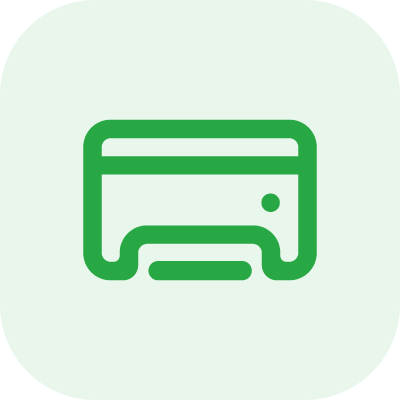
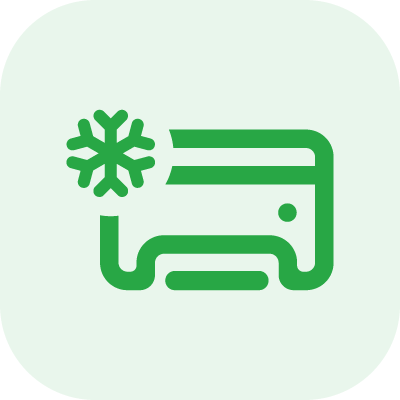
function + ajax + img + python

Changed region(s): [[0.15, 0.27, 0.84, 0.75]]

diff --git a/camarahistorico.php b/camarahistorico.php
@@ -1,11 +1,6 @@
 <?php
 session_start();
 
-// perlongar o tempo para 5 minutos não dar erro de 'Maximum execution time of 30 seconds exceeded'
-// para assim conseguir fazer o uso do pedido ajax
-ini_set('max_execution_time', '300'); //300 segundos = 5 minutos
-set_time_limit(300);
-
 // Ligação à Base de Dados (BD)
 require_once('connection.php'); 
 require_once('functions.php'); 
@@ -19,6 +14,7 @@ if ($_SESSION['perfil'] != 'admin') {
   header("Location: index.php");
   die();
 }
+
 
 // leitura das API's
 if (isset($_GET['nome'])) {
@@ -131,45 +127,13 @@ if (isset($_GET['nome'])) {
         'columns': [
           { data: "hora" },
           { data: "valor",
-            //o 'render' vai  converter o numero do ATUADOR de '1/0'  para 'aberto/fechado' ou 'ligado/desligado'
-            "render": function ( data, type, row ) { 
-              // caso porta/janela 
-              if ('<?php echo $nome_sensor ?>' === 'porta' || '<?php echo $nome_sensor ?>' === 'janela'){ 
-                if(data == '1'){ // valor for '1' -> escreve aberta
-                  return '<span> aberta </span>';
-                }else{ // valor for '0' -> escreve fechada
-                  return '<span> fechada </span>';
+            "render": function ( data, type, row ) {
+              // caso for porta/janela converte o numero 1/0 converte para aberto/fechado
+              if ('<?php echo $nome_sensor ?>' === 'porta'){ 
+                if(data == '1'){ return '<span> aberta </span>';
+                }else{ return '<span> fechada </span>';
                 }
-
-              // caso rega/ventoinha 
-              }else if('<?php echo $nome_sensor ?>' === 'rega' || '<?php echo $nome_sensor ?>' === 'ventoinha'){
-                if(data == '1'){ // valor for '1' -> escreve ligada
-                  return '<span> ligada </span>';
-                }else{ // valor for '0' -> escreve desligada
-                  return '<span> desligada </span>';
-                }
-
-              // caso refrigerador/aquecimento/humidificador 
-              }else if('<?php echo $nome_sensor ?>' === 'refrigerador' || '<?php echo $nome_sensor ?>' === 'aquecimento' || '<?php echo $nome_sensor ?>' === 'humidificador'){
-                if(data == '1'){ // valor for '1' -> escreve ligado
-                  return '<span> ligado </span>';
-                }else{ // valor for '0' -> escreve desligado
-                  return '<span> desligado </span>';
-                }
-
-              // caso movimento
-              }else if('<?php echo $nome_sensor ?>' === 'movimento' ){
-                if(data == '1'){ // valor for '1' -> escreve movimento não detetado
-                  return '<span> detetado </span>';
-                }else{ // valor for '0' -> escreve movimento detetado
-                  return '<span> não detetado </span>';
-                }
-
-              // caso camara muda para <img>
-              }else if('<?php echo $nome_sensor ?>' === 'camara'){
-                return '<span> <img width="150" src="' + (data) + ' " alt="Imagem da camara de vigilancia"> </span>';
-              
-              // caso for um SENSOR apresenta o valor do mesmo
+              // caso for outro sensor/atuador apresenta o valor do mesmo
               }else{
                 return data;
               }

diff --git a/ajax_cards.php b/ajax_cards.php
@@ -1,15 +1,24 @@
 <!-- CARD'S-->
 <div class="row row-cols-1 row-cols-sm-2 row-cols-lg-2 row-cols-xl-4 row_cards">
   <?php
+  // perlongar o tempo para 5 minutos não dar erro de 'Maximum execution time of 30 seconds exceeded'
+  // para assim conseguir fazer o uso do pedido ajax
+  ini_set('max_execution_time', '300'); //300 segundos = 5 minutos
+  set_time_limit(300);
+
+  require_once('connection.php');
+  require_once('functions.php');
+
   // soluçãoencontrada para a leitura SESSION com ajax
   if (!isset($_SESSION['username'])){ 
     session_start();
   }
 
-  require_once('connection.php');
-  require_once('functions.php');
 
-  $sql = "SELECT designacao,valor,hora FROM sensores ORDER BY designacao DESC LIMIT 8";
+
+ 
+
+  $sql = "SELECT designacao,valor,hora FROM sensores WHERE designacao NOT LIKE 'movimento' ORDER BY designacao DESC LIMIT 8";
   $result = mysqli_query($conn, $sql);
 
   while ($row = mysqli_fetch_row($result)) {
@@ -18,26 +27,24 @@
     // e vai buscar tambem o simbolo '%' ou 'ºC' dependendo do nme do sensor
     $valorSensor = converteValor($row[0], $row[1]);
 
-    if($row[0] == 'porta' || $row[0] == 'janela' || $row[0] == 'rega'){ // coloca nome e valor (aberta/fechada) para imagem 
-      $imgSensor = "$row[0]_$valorSensor";
-    }else{
-      $imgSensor = "$row[0]";
-    }
+    // vai buscar a IMG consuante o seu valor (aberto/desligado)
+    $imgSensor = imgNomeSrc($row[0]);
+
   ?>
 
     <div class="col col_card" id="div-to-refresh">
       <div class="card border-light">
         <div class="card-body rounded shadow-sm p-3">
           <div class="media">
-            <img class="mr-3" width="50" src="public/img/icon_sensor_<?php echo $imgSensor ?>.png" 
+            <img class="mr-3" width="50" src="<?php echo $imgSensor ?>" 
             onerror="this.src='public/img/icon_sensor_default.png'" alt="Icon de <?php echo $row[0] ?>"">
             <div class=" media-body">
             <h4 class="mb-1"> <b> <?php echo $valorSensor ?> </b> </h4>
             <h6 class="mb-1 text-muted"> <?php echo ucfirst($row[0]) ?> </h6>
           </div>
         </div>
-        <!-- restrinção para 'user' -->
-        <?php if ($_SESSION['perfil'] == "admin") { ?>
+        <!-- restrinção para 'user' // Apenas 'admin' e 'funcionario' tem acesso ao histórico-->
+        <?php if ( $_SESSION['perfil'] == "admin" || $_SESSION['perfil'] == "funcionario" ) { ?>
         <!-- actualização com icon + link de historico-->
         <div class="mt-3 pt-3 border-top">
           <span>
@@ -52,7 +59,8 @@
 </div>
 
 <?php }
-  $conn->close(); ?>
+  $conn->close(); 
+  ?>
 
 </div>
 <!-- FIM da secção das Card's-->

diff --git a/python/capturaWebcamOpensCV.py b/python/capturaWebcamOpensCV.py
@@ -5,22 +5,28 @@ import _thread
 import requests
 import cv2 as cv
 
+# defenição da data/hora para o POST
 def datahora():
     dt=strftime("%d/%m/%Y %H:%M:%S", gmtime())       
     return dt
 
+#vai buscar o data/hora para inserir no nome da imagem para não duplicar as mesmas
+def getTimeImg():
+    hora=strftime("%d-%m-%Y_%H-%M-%S", gmtime())       
+    return hora
 
-def send_post():
+
+def send_post(img):
         url = 'http://127.0.0.1/TI/projeto_it_greenhouse/api/api.php'        
 
         array_dados={
-            'nome' : 'movimento',
-            'valor' : '0',
+            'nome' : 'camara',
+            'valor' : img,
             'hora': datahora()
         }
         
         r=requests.post(url, data = array_dados)
-        #print(r.text)
+        print(r.text)
 
         if r.status_code == 200:
             print ("OK: POST realizado com sucesso")
@@ -37,7 +43,6 @@ def send_post():
 try :
     print( "Prima CTRL+C para terminar\n")
 
-    currentFrame = 0
 
     while True: # ciclo para o programa executar sem parar…
 
@@ -53,25 +58,25 @@ try :
                  # cv.CAP_DSHOW -> para não aparecer o warning de 'anonymous-namespace'
                 camera = cv.VideoCapture(0, cv.CAP_DSHOW)
                
-                
                 # Tira uma imagem - webcam
                 ret, imgCap = camera.read()
-                print ("Resultado da Camera = \n" + str(ret))
+                print ("Resultado da Camera = " + str(ret))
 
                 # reduzir o tamenho da imagem
                 #img_resize = cv.resize(imgCap,(300,300))
                 
-                file = "../public/img/webcam/test_image_" + str(currentFrame) + ".jpg"
+                fileName = "camara_" + str(getTimeImg()) + ".jpg" #cria o nome da imagem a partir da data/hora
+                file = "../public/img/webcam/" + str(fileName)  # caminho para o armanezamento da imagem
                 cv.imwrite(file, imgCap) # grava a imagem em disco
-                
-                # Para não duplicar as imagens
-                currentFrame += 1
 
                 camera.release()
                 cv.destroyAllWindows()
-                #send_post() # tenatr arranjar outra maneira
 
-            time.sleep (2)
+                #caminho da imagem para enviar via POST
+                fileImg = "public/img/webcam/" + fileName
+                send_post(fileImg) # enviar a imagem para a Base de Dados (POST)
+
+            time.sleep (2) #espera 2 segundos
 
 
 

diff --git a/ajax_tabelaSensores.php b/ajax_tabelaSensores.php
@@ -1,18 +1,24 @@
 <?php 
+  // perlongar o tempo para 5 minutos não dar erro de 'Maximum execution time of 30 seconds exceeded'
+  // para assim conseguir fazer o uso do pedido ajax
+  ini_set('max_execution_time', '300'); //300 segundos = 5 minutos
+  set_time_limit(300);
+
+  require_once('connection.php'); 
+  require_once('functions.php'); 
+
   // soluçãoencontrada para a leitura SESSION com ajax
   if (!isset($_SESSION['username'])){ 
     session_start();
   }
-  
-  require_once('connection.php'); 
-  require_once('functions.php'); 
 
   $dados = obterSensores();
+
 ?>
 
 
 <!-- Tabela dos Sensores -->
-<div class="card border-light rounded shadow-sm mt-3">
+<div class="card border-light rounded shadow-sm mt-3 mb-3">
   <div class="card-header bg-success text-white header-table">Tabela de Sensores</div>
   <div class="card-body card_sensores">
     <table class="table table-sm table-responsive-sm">
@@ -51,7 +57,7 @@
              if( ($greenhouse->designacao) == "camara" ){  //No caso de ser camara ira mostrar uma imagem
                 echo " <td> 
                           <img class='mr-3' width='70' src=' " . ($greenhouse->valor) . " ' 
-                          onerror='this.src='public/img/icon_sensor_default.png'' alt=''> 
+                          onerror='this.src='public/img/icon_sensor_default.png'' alt='Imagem Camara'> 
                         </td>";
 
              } else {
@@ -112,9 +118,9 @@
             <?php // botões para os atuadores
             $nome = $greenhouse->designacao;
             $valor = $greenhouse->valor;
-              if ($nome == 'porta' || $nome == 'janela' || $nome == 'rega' || $nome == 'refrigerador' || $nome == 'aquecimento') {
+              if ($nome == 'porta' || $nome == 'janela' || $nome == 'rega' || $nome == 'refrigerador' || $nome == 'aquecimento' || $nome == 'humidificador' || $nome == 'ventoinha') {
                 echo "<td>";
-                echo "<button id=btn" . $nome . " name='" . $nome . "' type='button' class='btn btn-outline-success btn-sm' onclick='btnEstado(this)' value='" . $valor . "'> Send Post </button>";
+                echo "<button id=btn" . $nome . " name='" . $nome . "' type='button' class='btn btn-outline-success btn-sm' onclick='btnEstado(this)' value='" . $valor . "'> Post " . ucfirst($nome) . " </button>";
                 echo "</td>";
               } else{
                 echo "<td class='text-muted'> - </td>";

diff --git a/functions.php b/functions.php
@@ -13,7 +13,7 @@ function isLoggedIn() {
 function escreveSimbolo($nome) {
     $simbolo = "";
 
-    if ($nome == "luminosidade" || $nome == "humidade" || $nome == "humidade solo" || $nome == "co2") {
+    if ($nome == "humidade") {
       $simbolo = "%";
     }
 
@@ -34,14 +34,28 @@ function converteValor($nome, $valor) {
     }else{
       $valorSensor = 'fechada';
     }
-  // caso não outros atuadores converte '1/0' para 'ligado/desligado'
-  }else if($nome == 'rega'){
-    if ($valor == '1'){ // se for '1' converte para 'ligado'
+  // caso o atuador for luminosidade
+  }else if($nome == 'luminosidade'){
+    if ($valor == '1'){ // se for '1' converte para 'alta'
+      $valorSensor = 'alta';
+    }else{
+      $valorSensor = 'baixa';
+    }
+  // caso o atuador for movimento
+  }else if($nome == 'movimento'){
+    if ($valor == '1'){ // se for '1' converte para 'detetado'
+      $valorSensor = 'detetado';
+    }else{
+      $valorSensor = 'não detetado';
+    }
+  // caso não outros atuadores converte '1/0' para 'ligado/desligado'  
+  }else if($nome == 'rega' || $nome == 'ventoinha'){
+    if ($valor == '1'){ // se for '1' converte para 'ligada'
       $valorSensor = 'ligada';
     }else{
       $valorSensor = 'desligada';
     }
-  }else if($nome == 'refrigerador' || $nome == 'aquecimento'){
+  }else if($nome == 'refrigerador' || $nome == 'aquecimento' || $nome == 'humidificador' ){
     if ($valor == '1'){ // se for '1' converte para 'ligado'
       $valorSensor = 'ligado';
     }else{
@@ -72,13 +86,22 @@ function imgNomeSrc($nome) {
     }else{
       $nomeImg = $nome.'_fechada';
     }
-  // caso não seja nenhum desses atuadores, fica apenas o nome
-  }else if($nome == 'refrigerador' || $nome == 'aquecimento'){
+
+  // caso o atuador for refrigerador/aquecimento/humidificador
+  }else if($nome == 'refrigerador' || $nome == 'aquecimento' || $nome == 'humidificador' ){
     if ($valor == '1'){ // se for '1' converte para 'aberta'
       $nomeImg = $nome.'_ligado';
     }else{
       $nomeImg = $nome.'_desligado';
     }
+
+  // caso o atuador for rega/ventoinha
+  }else if($nome == 'rega' || $nome == 'ventoinha'){
+  if ($valor == '1'){ // se for '1' converte para 'aberta'
+    $nomeImg = $nome.'_ligada';
+  }else{
+    $nomeImg = $nome.'_desligada';
+  }
   // caso não seja nenhum desses atuadores, fica apenas o nome
   }else{
     $nomeImg = $nome;

diff --git a/index.php b/index.php
@@ -112,7 +112,6 @@ if (!isset($_SESSION['username'])) {
         });
       }, 5000); // faz refresh a cada 5 segundos
 
-
     });
   </script>
 
